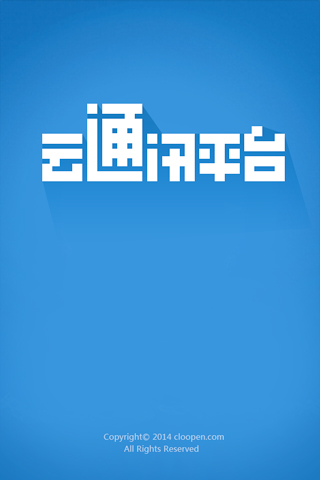
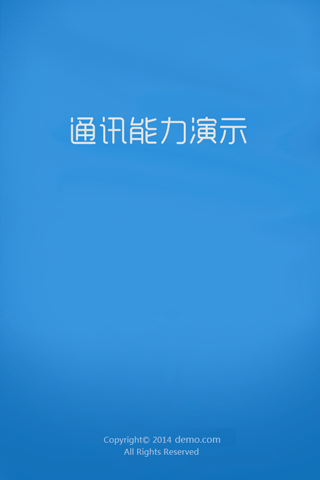
ios demo 去掉容联云相关图片版本demo

Changed region(s): [[0.125, 0.1875, 0.9062, 0.4062], [0.0, 0.8125, 0.9688, 1.0], [0.0312, 0.0, 1.0, 0.1875]]

diff --git a/demo_iOS/CCPVoipDemo/CCPVoipDemo/RegisterViewController.m b/demo_iOS/CCPVoipDemo/CCPVoipDemo/RegisterViewController.m
@@ -29,6 +29,7 @@
 @end
 
 @implementation RegisterViewController {
+    UITextField *loginAccount_textField;
     UITextField *loginIP_textField;
     UITextField *loginPort_textField;
     UITextField *loginPsswd_textField;
@@ -58,7 +59,7 @@
 
 -(void)loadView
 {
-    self.title = @"开发模式登录";
+    self.title = @"登录演示";
     self.view = [[[UIView alloc] initWithFrame:[UIScreen mainScreen].applicationFrame] autorelease];
     self.view.backgroundColor = VIEW_BACKGROUND_COLOR_FIRSTVIEW;
     if ([[[UIDevice currentDevice] systemVersion] doubleValue] >= 5.0)
@@ -75,9 +76,11 @@
     self.navigationController.navigationBar.tintColor = VIEW_BACKGROUND_COLOR_FIRSTVIEW;
     [UIApplication sharedApplication].statusBarStyle =UIStatusBarStyleBlackOpaque;
     
-    UIBarButtonItem *leftBarItem = [[UIBarButtonItem alloc] initWithCustomView:[CommonTools navigationBackItemBtnInitWithTarget:self action:@selector(popToPreView)]];
-    self.navigationItem.leftBarButtonItem = leftBarItem;
-    [leftBarItem release];
+//    UIBarButtonItem *leftBarItem = [[UIBarButtonItem alloc] initWithCustomView:[CommonTools navigationBackItemBtnInitWithTarget:self action:@selector(popToPreView)]];
+//    self.navigationItem.leftBarButtonItem = leftBarItem;
+//    [leftBarItem release];
+    // hide lift bar button, added by zhaoyou
+    self.navigationItem.hidesBackButton = YES;
     
     NSString* fileStr = Nil;
     if (IPHONE5)
@@ -97,75 +100,103 @@
     [bgBtn release];
     
     //主账号信息布局
-    UILabel *mainLabel = [[UILabel alloc] initWithFrame:CGRectMake(11.0f, 11.0f, 100.0f, 20.0f)];
-    mainLabel.text = @"主账号：";
-    mainLabel.font = [UIFont systemFontOfSize:16.0f];
-    mainLabel.backgroundColor = [UIColor clearColor];
-    mainLabel.textColor = [UIColor whiteColor];
-    [self.view addSubview:mainLabel];
-    [mainLabel release];
+//    UILabel *mainLabel = [[UILabel alloc] initWithFrame:CGRectMake(11.0f, 11.0f, 100.0f, 20.0f)];
+//    mainLabel.text = @"主账号：";
+//    mainLabel.font = [UIFont systemFontOfSize:16.0f];
+//    mainLabel.backgroundColor = [UIColor clearColor];
+//    mainLabel.textColor = [UIColor whiteColor];
+//    [self.view addSubview:mainLabel];
+//    [mainLabel release];
+//
+//    UIImageView *mainImgViewBG1 = [[UIImageView alloc] initWithImage:[UIImage imageNamed:@"new126.png"]];
+//    mainImgViewBG1.frame = CGRectMake(11.0F, 35.0f, 298, 44);
+//    [self.view addSubview:mainImgViewBG1];
+//    [mainImgViewBG1 release];
+//    
+//    UIImageView *mainImgViewBG2 = [[UIImageView alloc] initWithImage:[UIImage imageNamed:@"new126.png"]];
+//    mainImgViewBG2.frame = CGRectMake(11.0F, 35.0f+1+44, 298, 44);
+//    [self.view addSubview:mainImgViewBG2];
+//    [mainImgViewBG2 release];
+//    
+//    UIImageView *mainImgView1 = [[UIImageView alloc] initWithImage:[UIImage imageNamed:@"new98.png"]];
+//    mainImgView1.frame = CGRectMake(11.0F, 35.0f, 44, 44);
+//    [self.view addSubview:mainImgView1];
+//    [mainImgView1 release];
+//    
+//    UIImageView *mainImgView2 = [[UIImageView alloc] initWithImage:[UIImage imageNamed:@"new100.png"]];
+//    mainImgView2.frame = CGRectMake(11.0F, 35.0f+1+44, 44, 44);
+//    [self.view addSubview:mainImgView2];
+//    [mainImgView2 release];
+//    
+//    
+//    UITextField *mainAccountTextField = [[UITextField alloc] initWithFrame:CGRectMake(61.0f, 38.0f, 265.0f, 39.0f)];
+//    mainAccountTextField.contentVerticalAlignment = UIControlContentVerticalAlignmentCenter;
+//    [self.view addSubview:mainAccountTextField];
+//    mainAccountTextField.placeholder = @"请输入主账号";
+//    mainAccountTextField.delegate = self;
+//    mainAccountTextField.font = [UIFont systemFontOfSize:14];
+//    mainAccountTextField.textColor = [UIColor whiteColor];
+//    mainAccountTextField.tag = TEXTFILED_BASE_TAG;
+//    [mainAccountTextField release];
+//    
+//    UITextField *mainTokenTextField = [[UITextField alloc] initWithFrame:CGRectMake(61.0f, 83, 265.0f, 39.0f)];
+//    mainTokenTextField.contentVerticalAlignment = UIControlContentVerticalAlignmentCenter;
+//    [self.view addSubview:mainTokenTextField];
+//    mainTokenTextField.placeholder = @"请输入主账号令牌";
+//    mainTokenTextField.delegate = self;
+//    mainTokenTextField.font = [UIFont systemFontOfSize:14];
+//    mainTokenTextField.textColor = [UIColor whiteColor];
+//    mainTokenTextField.tag = TEXTFILED_BASE_TAG + 1;
+//    [mainTokenTextField release];
 
-    UIImageView *mainImgViewBG1 = [[UIImageView alloc] initWithImage:[UIImage imageNamed:@"new126.png"]];
-    mainImgViewBG1.frame = CGRectMake(11.0F, 35.0f, 298, 44);
-    [self.view addSubview:mainImgViewBG1];
-    [mainImgViewBG1 release];
-    
-    UIImageView *mainImgViewBG2 = [[UIImageView alloc] initWithImage:[UIImage imageNamed:@"new126.png"]];
-    mainImgViewBG2.frame = CGRectMake(11.0F, 35.0f+1+44, 298, 44);
-    [self.view addSubview:mainImgViewBG2];
-    [mainImgViewBG2 release];
-    
-    UIImageView *mainImgView1 = [[UIImageView alloc] initWithImage:[UIImage imageNamed:@"new98.png"]];
-    mainImgView1.frame = CGRectMake(11.0F, 35.0f, 44, 44);
-    [self.view addSubview:mainImgView1];
-    [mainImgView1 release];
-    
-    UIImageView *mainImgView2 = [[UIImageView alloc] initWithImage:[UIImage imageNamed:@"new100.png"]];
-    mainImgView2.frame = CGRectMake(11.0F, 35.0f+1+44, 44, 44);
-    [self.view addSubview:mainImgView2];
-    [mainImgView2 release];
-    
-    
-    UITextField *mainAccountTextField = [[UITextField alloc] initWithFrame:CGRectMake(61.0f, 38.0f, 265.0f, 39.0f)];
-    mainAccountTextField.contentVerticalAlignment = UIControlContentVerticalAlignmentCenter;
-    [self.view addSubview:mainAccountTextField];
-    mainAccountTextField.placeholder = @"请输入主账号";
-    mainAccountTextField.delegate = self;
-    mainAccountTextField.font = [UIFont systemFontOfSize:14];
-    mainAccountTextField.textColor = [UIColor whiteColor];
-    mainAccountTextField.tag = TEXTFILED_BASE_TAG;
-    [mainAccountTextField release];
-    
-    UITextField *mainTokenTextField = [[UITextField alloc] initWithFrame:CGRectMake(61.0f, 83, 265.0f, 39.0f)];
-    mainTokenTextField.contentVerticalAlignment = UIControlContentVerticalAlignmentCenter;
-    [self.view addSubview:mainTokenTextField];
-    mainTokenTextField.placeholder = @"请输入主账号令牌";
-    mainTokenTextField.delegate = self;
-    mainTokenTextField.font = [UIFont systemFontOfSize:14];
-    mainTokenTextField.textColor = [UIColor whiteColor];
-    mainTokenTextField.tag = TEXTFILED_BASE_TAG + 1;
-    [mainTokenTextField release];
-    
-    
     //子账号信息布局
     UILabel *subLabel = [[UILabel alloc] initWithFrame:CGRectMake(11.0f, 135.0f, 200.0f, 20.0f)];
-    subLabel.text = @"请选择子账号：";
+    subLabel.text = @"请输入登录账号：";
     subLabel.font = [UIFont systemFontOfSize:16.0f];
     subLabel.backgroundColor = [UIColor clearColor];
     subLabel.textColor = [UIColor whiteColor];
     [self.view addSubview:subLabel];
     [subLabel release];
     
-    UIButton *selectBtn = [UIButton buttonWithType:UIButtonTypeCustom];
-    [self.view addSubview:selectBtn];
-    selectBtn.tag = TEXTFILED_BASE_TAG + 4;
-    selectBtn.frame = CGRectMake(11, 160, 298, 44);
-    [selectBtn addTarget:self action:@selector(selectVoip:) forControlEvents:UIControlEventTouchUpInside];
-    [selectBtn setBackgroundImage:[UIImage imageNamed:@"new126.png"] forState:UIControlStateNormal];
-    [selectBtn setBackgroundImage:[UIImage imageNamed:@"new126_on.png"] forState:UIControlStateSelected];
-    [selectBtn setTitle:@"单击选择VoIP账号" forState:UIControlStateNormal];
-    [selectBtn setTitleColor:[UIColor whiteColor] forState:UIControlStateNormal];
-    selectBtn.titleLabel.font = [UIFont systemFontOfSize:17.0f];
+//    UIButton *selectBtn = [UIButton buttonWithType:UIButtonTypeCustom];
+//    [self.view addSubview:selectBtn];
+//    selectBtn.tag = TEXTFILED_BASE_TAG + 4;
+//    selectBtn.frame = CGRectMake(11, 160, 298, 44);
+//    [selectBtn addTarget:self action:@selector(selectVoip:) forControlEvents:UIControlEventTouchUpInside];
+//    [selectBtn setBackgroundImage:[UIImage imageNamed:@"new126.png"] forState:UIControlStateNormal];
+//    [selectBtn setBackgroundImage:[UIImage imageNamed:@"new126_on.png"] forState:UIControlStateSelected];
+//    [selectBtn setTitle:@"单击选择VoIP账号" forState:UIControlStateNormal];
+//    [selectBtn setTitleColor:[UIColor whiteColor] forState:UIControlStateNormal];
+//    selectBtn.titleLabel.font = [UIFont systemFontOfSize:17.0f];
+//    
+//    
+    UIImageView *mainImgViewBG9 = [[UIImageView alloc] initWithImage:[UIImage imageNamed:@"new126.png"]];
+    mainImgViewBG9.frame = CGRectMake(11, 160, 298, 44);
+    [self.view addSubview:mainImgViewBG9];
+    [mainImgViewBG9 release];
+    
+    // config login account
+    NSUserDefaults* loginDefault = [NSUserDefaults standardUserDefaults];
+    loginAccount_textField = [[UITextField alloc]initWithFrame:CGRectMake(11, 160, 298, 44)];
+    loginAccount_textField.delegate = self;
+    loginAccount_textField.borderStyle = UITextBorderStyleLine;
+    loginAccount_textField.layer.borderColor= [UIColor grayColor].CGColor;
+    loginAccount_textField.layer.borderWidth= 1.0f;
+    loginAccount_textField.textColor = [UIColor whiteColor];
+    loginAccount_textField.font = [UIFont systemFontOfSize:13.0f];
+    
+    loginAccount_textField.textAlignment = NSTextAlignmentCenter;
+    NSString *loginAccount = [loginDefault objectForKey:@"loginAccount"];
+    if(loginAccount == nil) {
+        loginAccount_textField.text = @"1002";
+    } else {
+        loginAccount_textField.text = loginAccount;
+    }
+    [self.view addSubview:loginAccount_textField];
+    [loginAccount_textField release];
+    
+    
+    
     
     
     UIImageView *mainImgViewBG3 = [[UIImageView alloc] initWithImage:[UIImage imageNamed:@"new126.png"]];
@@ -188,7 +219,7 @@
     [selectLabel release];
  
     // config login IP address
-    NSUserDefaults* loginDefault = [NSUserDefaults standardUserDefaults];
+    // NSUserDefaults* loginDefault = [NSUserDefaults standardUserDefaults];
     loginIP_textField = [[UITextField alloc]initWithFrame:CGRectMake(20.0f, 235.0f, 120.0f, 30.0f)];
     loginIP_textField.delegate = self;
     loginIP_textField.borderStyle = UITextBorderStyleLine;
@@ -254,16 +285,16 @@
     [registBtn setBackgroundImage:[UIImage imageNamed:@"new158.png"] forState:UIControlStateNormal];
     [registBtn setBackgroundImage:[UIImage imageNamed:@"new158_on.png"] forState:UIControlStateHighlighted];
     
-    UILabel *textLabel = [[UILabel alloc] initWithFrame:CGRectMake(20.0f, self.view.frame.size.height - 105, 280, 40)];
-    textLabel.text = @"账号不可直接输入，配置方法请查看开发文档。请选择子账号登陆后即可体验相关能力。";
-    textLabel.backgroundColor = [UIColor clearColor];
-    textLabel.font = [UIFont systemFontOfSize:12.0f];
-    textLabel.textAlignment = NSTextAlignmentLeft;
-    [self.view addSubview:textLabel];
-    textLabel.numberOfLines = 0;
-    textLabel.lineBreakMode = UILineBreakModeCharacterWrap;
-    textLabel.textColor = [UIColor colorWithRed:204./255 green:204./255 blue:204./255 alpha:1.];
-    [textLabel release];
+//    UILabel *textLabel = [[UILabel alloc] initWithFrame:CGRectMake(20.0f, self.view.frame.size.height - 105, 280, 40)];
+//    textLabel.text = @"账号不可直接输入，配置方法请查看开发文档。请选择子账号登陆后即可体验相关能力。";
+//    textLabel.backgroundColor = [UIColor clearColor];
+//    textLabel.font = [UIFont systemFontOfSize:12.0f];
+//    textLabel.textAlignment = NSTextAlignmentLeft;
+//    [self.view addSubview:textLabel];
+//    textLabel.numberOfLines = 0;
+//    textLabel.lineBreakMode = UILineBreakModeCharacterWrap;
+//    textLabel.textColor = [UIColor colorWithRed:204./255 green:204./255 blue:204./255 alpha:1.];
+//    [textLabel release];
 }
 
 -(void)textFieldDidEndEditing:(UITextField *)textField {
@@ -274,6 +305,8 @@
         [loginDefault setObject:textField.text forKey:@"loginPort"];
     } else if(textField == loginPsswd_textField) {
         [loginDefault setObject:textField.text forKey:@"loginPssWD"];
+    } else if(textField == loginAccount_textField) {
+        [loginDefault setObject:textField.text forKey:@"loginAccount"];
     } else {
         //todo: something
     }
@@ -511,7 +544,7 @@
     if (self.modelEngineVoip)
     {
         [self displayProgressingView];
-        [self.modelEngineVoip connectToCCP:loginIP_textField.text onPort:[loginPort_textField.text integerValue] withAccount:voipID withPsw:loginPsswd_textField.text withAccountSid:subID withAuthToken:subToken];
+        [self.modelEngineVoip connectToCCP:loginIP_textField.text onPort:[loginPort_textField.text integerValue] withAccount:loginAccount_textField.text withPsw:loginPsswd_textField.text withAccountSid:subID withAuthToken:subToken];
     }
 }
 

diff --git a/demo_iOS/CCPVoipDemo/CCPVoipDemo/ModelSelectViewController.m b/demo_iOS/CCPVoipDemo/CCPVoipDemo/ModelSelectViewController.m
@@ -77,10 +77,10 @@
     UIView *topView = [[UIView alloc] initWithFrame:CGRectMake(0.0f, 0.0f, 320.0f, 92.0f+value)];
     topView.backgroundColor = [UIColor colorWithRed:34.0f/255.0f green:34.0f/255.0f blue:34.0f/255.0f alpha:1.0f];
     
-    UIImageView *logoImg = [[UIImageView alloc] initWithImage:[UIImage imageNamed:@"logoDemo.png"]];
-    logoImg.center = CGPointMake(77.0f, 45.0f+value/2);
-    [topView addSubview:logoImg];
-    [logoImg release];
+//    UIImageView *logoImg = [[UIImageView alloc] initWithImage:[UIImage imageNamed:@"logoDemo.png"]];
+//    logoImg.center = CGPointMake(77.0f, 45.0f+value/2);
+//    [topView addSubview:logoImg];
+//    [logoImg release];
     
     UILabel *topLabel = [[UILabel alloc] initWithFrame:CGRectMake(200.0f, 50.0f+value, 109.0f, 20.0f)];
     topLabel.backgroundColor = [UIColor colorWithRed:34.0f/255.0f green:34.0f/255.0f blue:34.0f/255.0f alpha:1.0f];
@@ -243,9 +243,9 @@
 - (void)viewDidAppear:(BOOL)animated
 {
     [super viewDidAppear:animated];
-//    RegisterViewController *view = [[RegisterViewController alloc] init];
-//    [self.navigationController pushViewController:view animated:YES];
-//    [view release];
+    RegisterViewController *view = [[RegisterViewController alloc] init];
+    [self.navigationController pushViewController:view animated:YES];
+    [view release];
 }
 
 - (void)viewWillDisappear:(BOOL)animated

diff --git a/demo_iOS/CCPVoipDemo/CCPVoipDemo/DemoListViewController.m b/demo_iOS/CCPVoipDemo/CCPVoipDemo/DemoListViewController.m
@@ -73,10 +73,10 @@
     self.navigationItem.backBarButtonItem = back;
     [back release];
     
-    UIImageView *imageView = [[UIImageView alloc] initWithImage:[UIImage imageNamed:@"logoDemo.png"]];
-    imageView.frame = CGRectMake(11, 21+value, 133, 49);
-    [self.view addSubview:imageView];
-    [imageView release];
+//    UIImageView *imageView = [[UIImageView alloc] initWithImage:[UIImage imageNamed:@"logoDemo.png"]];
+//    imageView.frame = CGRectMake(11, 21+value, 133, 49);
+//    [self.view addSubview:imageView];
+//    [imageView release];
     
     UILabel* lb2 = [[UILabel alloc] initWithFrame:CGRectMake(210 , 53+value, 100, 25)];
     lb2.textAlignment = NSTextAlignmentRight;

diff --git a/demo_iOS/CCPVoipDemo/CCPVoipDemo/AppDelegate.m b/demo_iOS/CCPVoipDemo/CCPVoipDemo/AppDelegate.m
@@ -83,6 +83,10 @@ extern char *g_opengles_display;
     NSString* _filename5 = [doc_path stringByAppendingPathComponent:@"debug.pcm"];
     size_t len5 = _filename5.length;
 
+    // 启动页停留时间
+    [NSThread sleepForTimeInterval:1];
+  
+    
 //    filename_path_yuv = (char *)malloc(len5+1);//new char[len + 1];
 //    memcpy(filename_path_yuv, [_filename5 UTF8String], len5);
 //    filename_path_yuv[len5] = '\0';
@@ -213,4 +217,9 @@ extern char *g_opengles_display;
 {
     NSLog(@"%@",log); //用于xcode日志输出
 }
+
+
+
+
+
 @end
